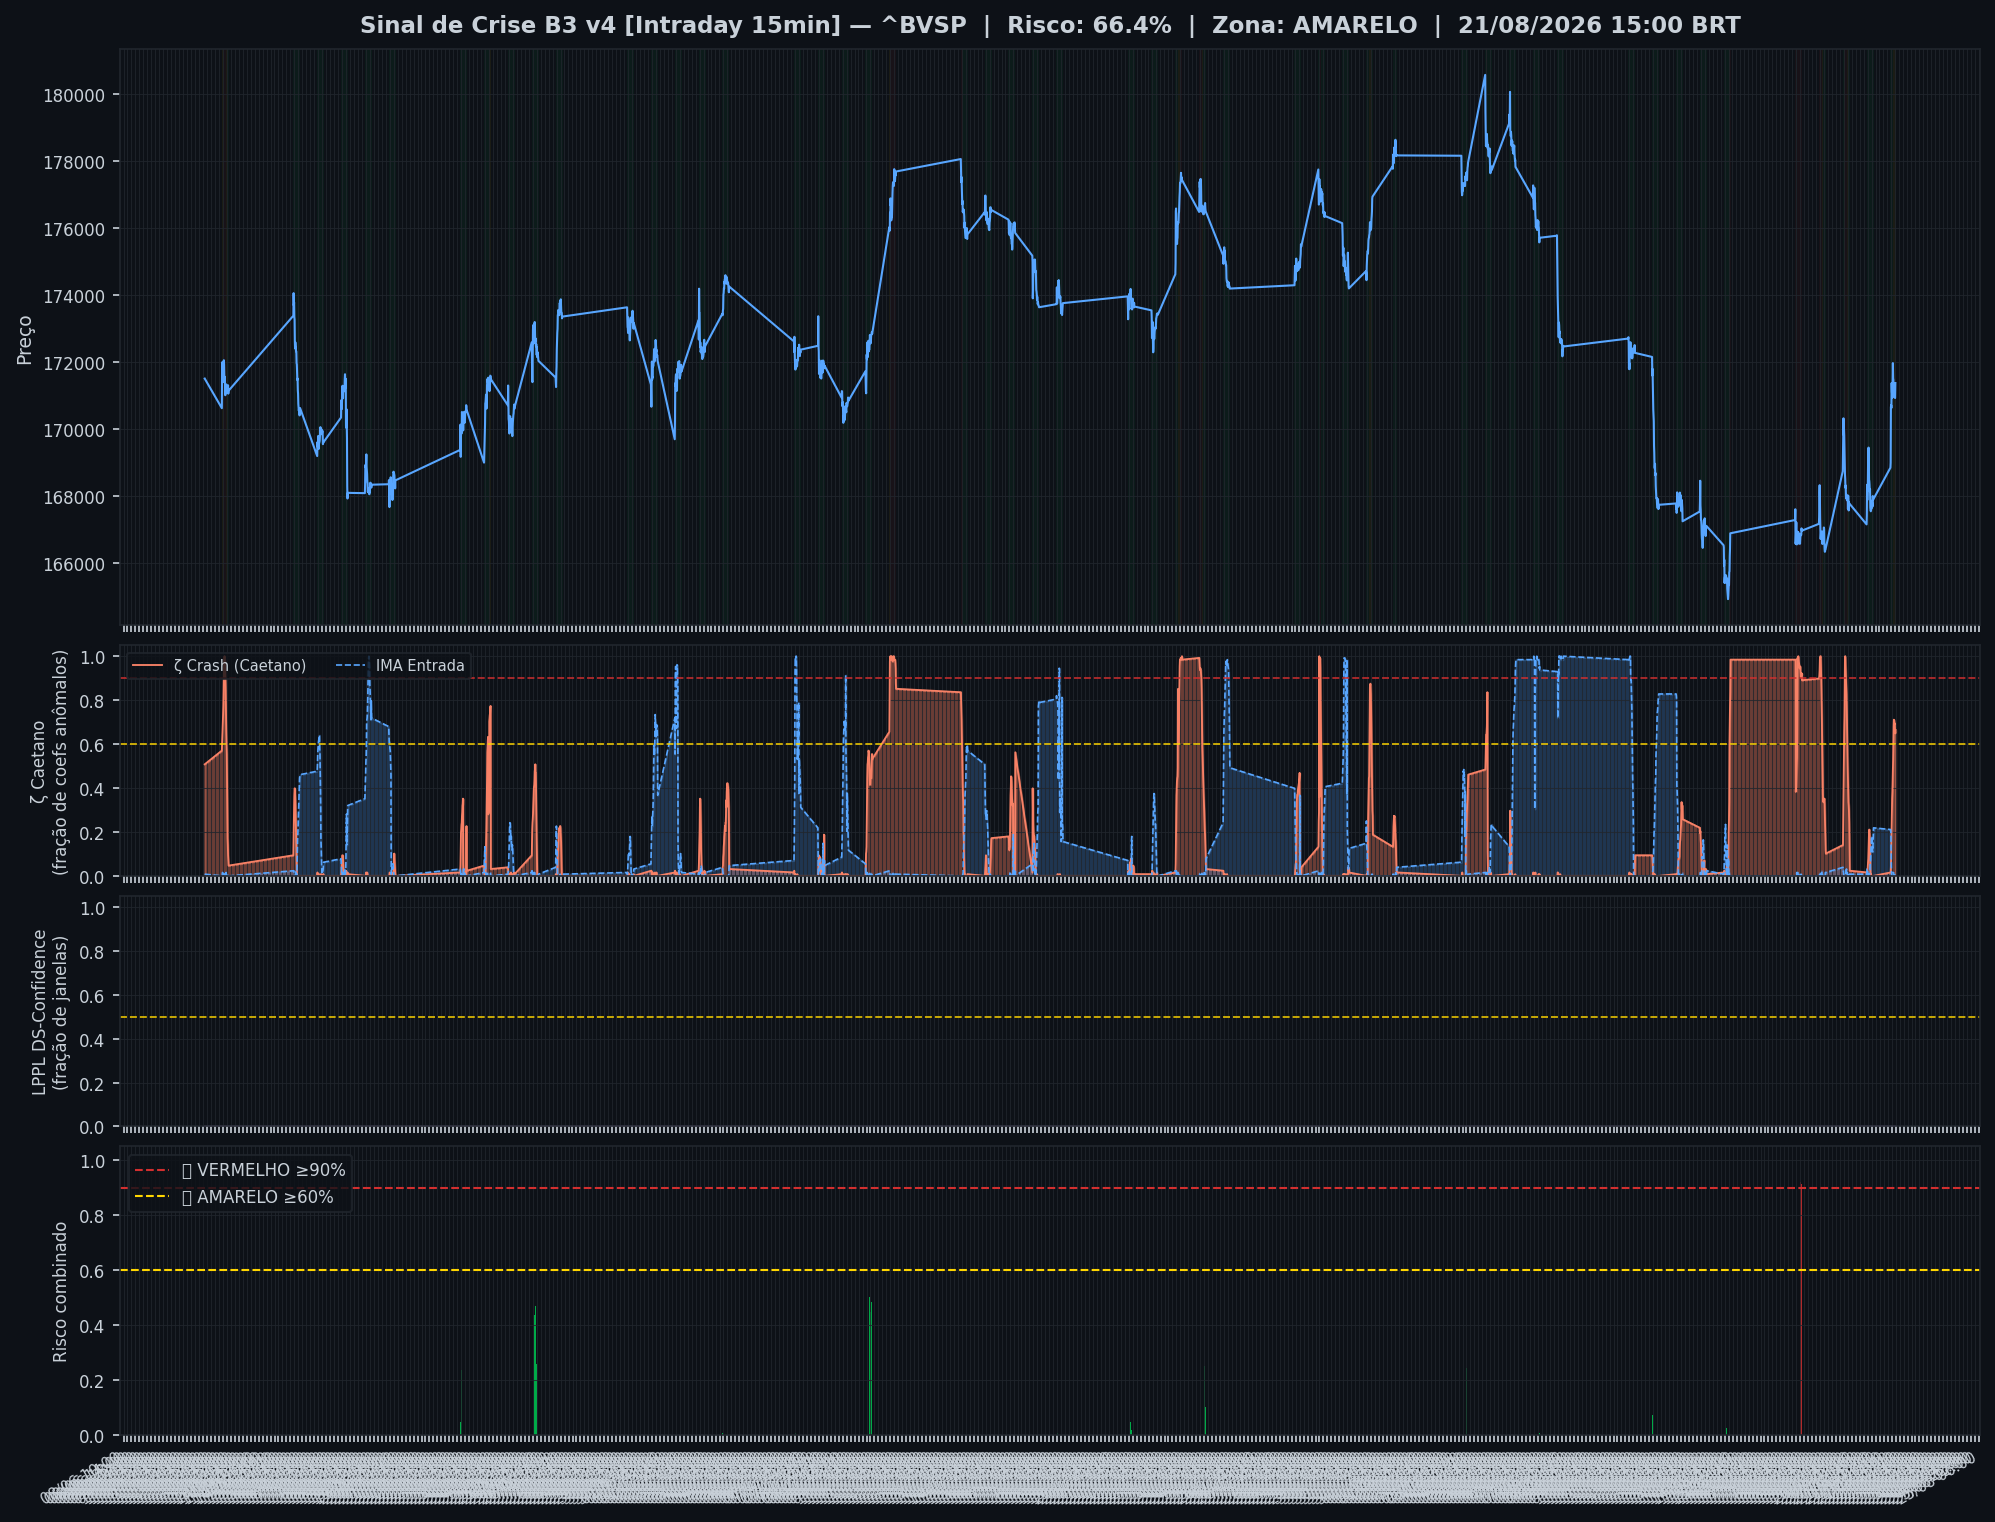
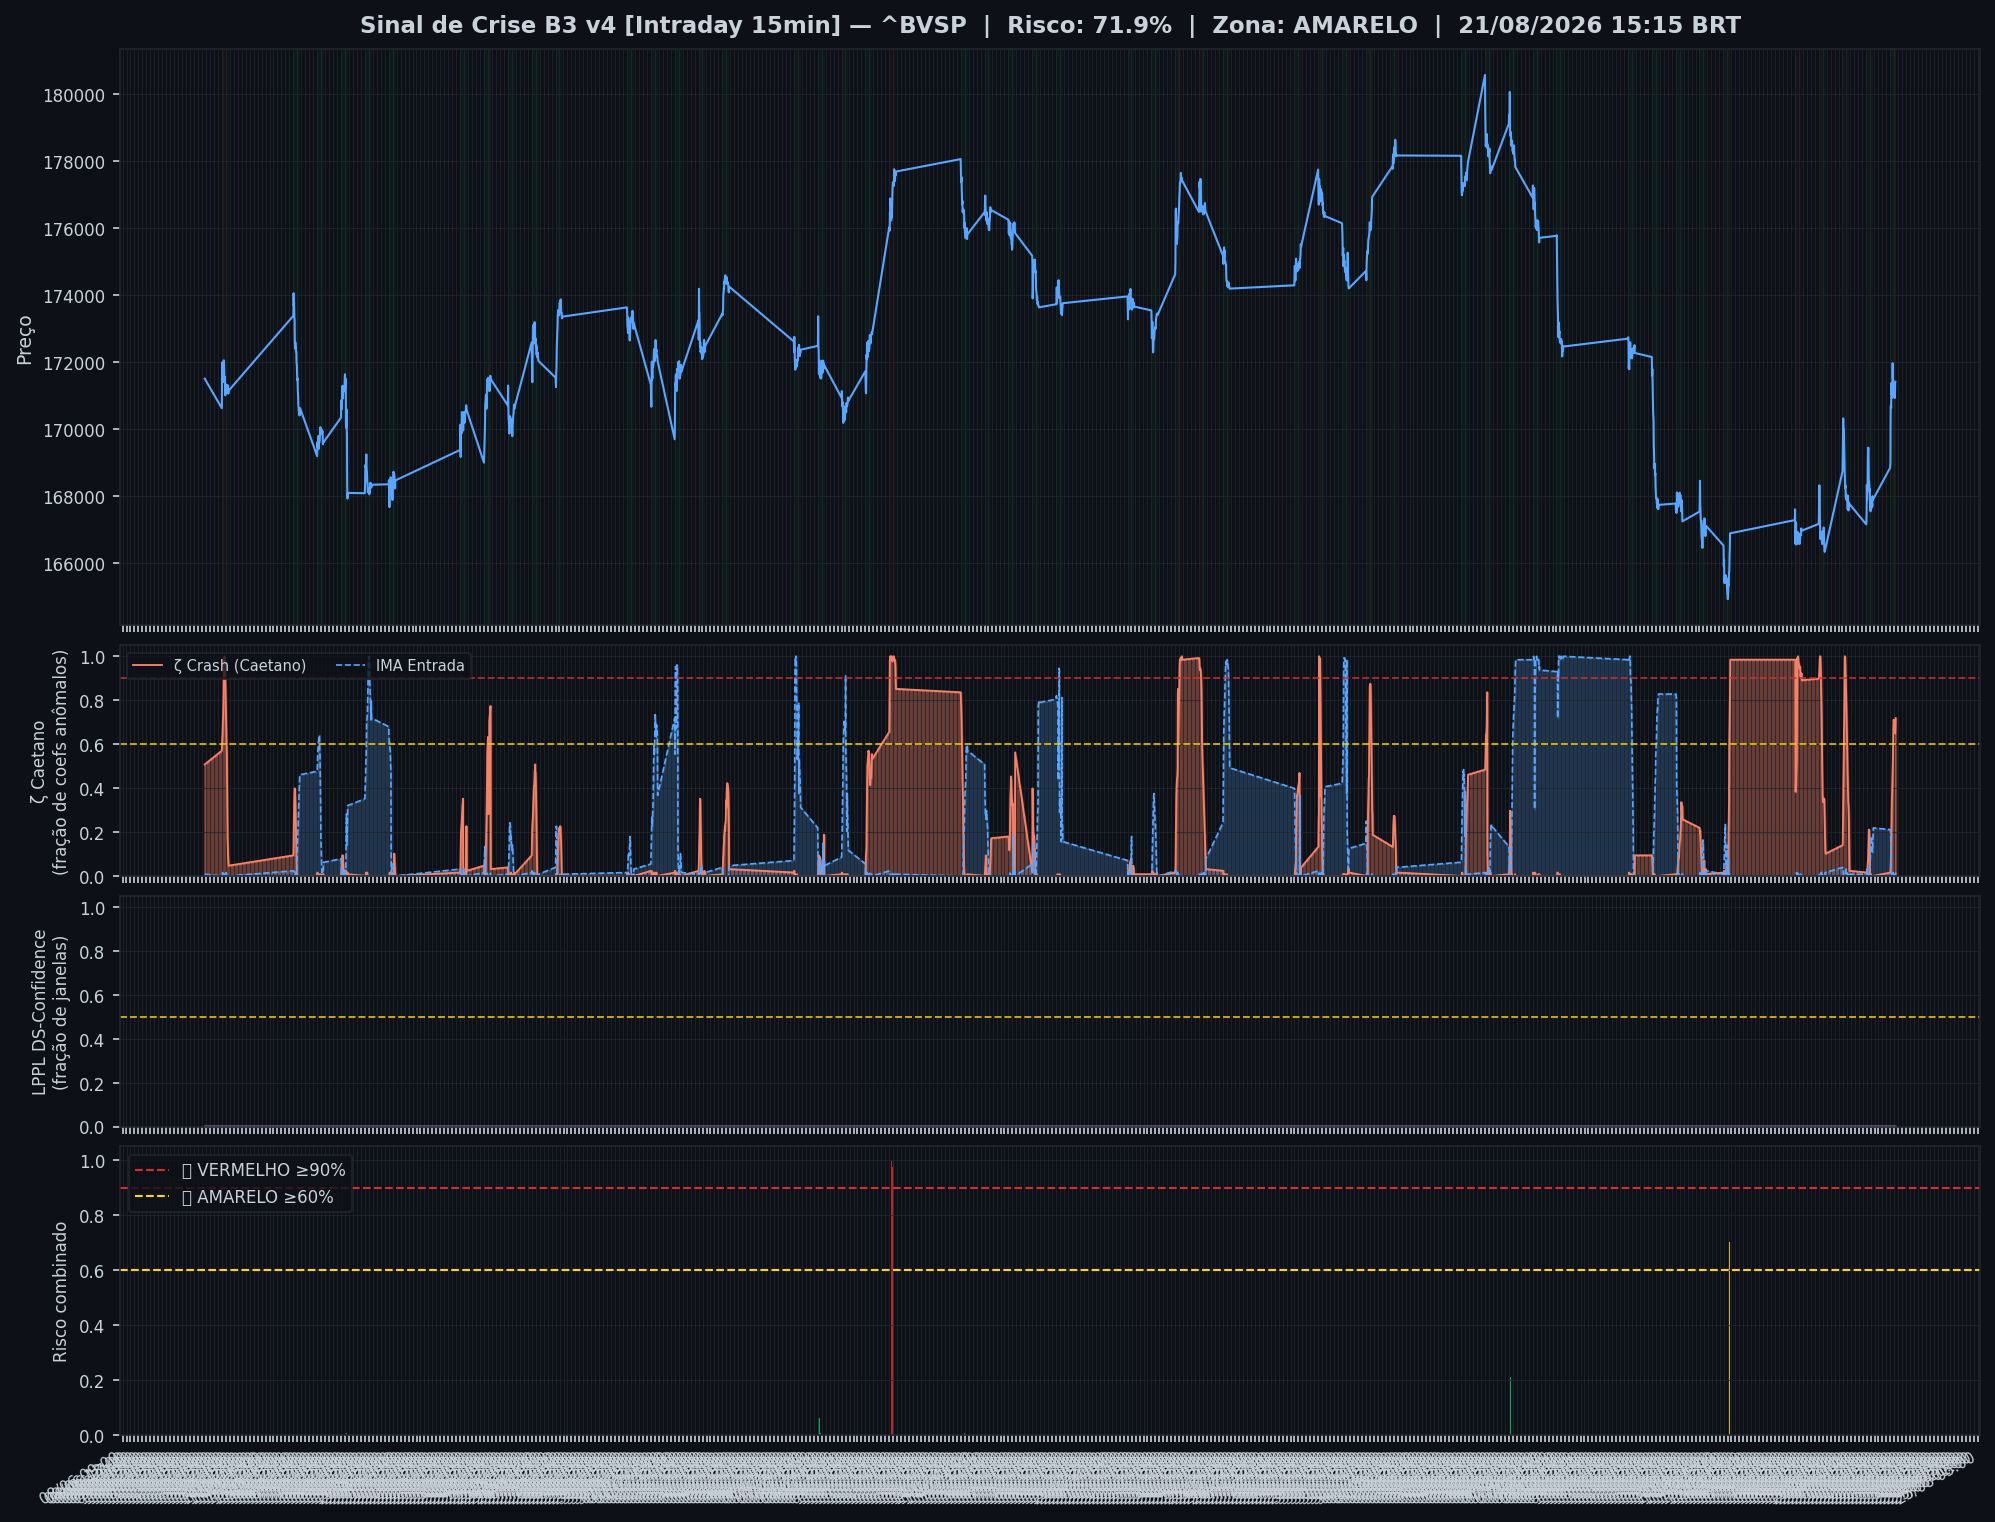
🤖 Auto: Sinal 21/08/2026 16:00

diff --git a/content/intraday/2026-08-21.md b/content/intraday/2026-08-21.md
@@ -1,20 +1,20 @@
 ---
-title: "🟡 Intraday 21/08/2026 15:00 BRT — AMARELO"
+title: "🟡 Intraday 21/08/2026 15:15 BRT — AMARELO"
 date: 2026-08-21
 tags: [intraday]
 ---
 
-> [!warning] 🟡 **AMARELO** — Risco 66% · ▲ +2 p.p. vs leitura anterior
-> `█████████████░░░░░░░`
+> [!warning] 🟡 **AMARELO** — Risco 72% · ▲ +5 p.p. vs leitura anterior
+> `██████████████░░░░░░`
 > Atenção — padrão de coeficientes associado a quedas mais severas.
 
 
 | Indicador | Valor |
 |---|---|
-| 🔴 ζ Crash — severidade da queda em curso | **66%** |
-| 🔵 ζ Entrada — estrutura de fundo | 0% |
+| 🔴 ζ Crash — severidade da queda em curso | **72%** |
+| 🔵 ζ Entrada — estrutura de fundo | 2% |
 | 🫧 LPPL DS-Confidence | 0% |
-| 📊 Ibovespa | 171.364 pts |
+| 📊 Ibovespa | 171.404 pts |
 
 ![Gráfico do sinal](../graficos/sinal_intraday.png)
 
@@ -22,6 +22,7 @@ tags: [intraday]
 
 | Data | Zona | Risco | IMA Crash | Entrada | LPPL |
 |---|---|---|---|---|---|
+| 2026-08-21 15:15 | 🟡 AMARELO | **72%** | 72% | 2% | 0% |
 | 2026-08-21 15:00 | 🟡 AMARELO | **66%** | 66% | 0% | 0% |
 | 2026-08-21 14:45 | 🟡 AMARELO | **65%** | 65% | 0% | 0% |
 | 2026-08-21 14:30 | 🟡 AMARELO | **66%** | 66% | 0% | 0% |
@@ -51,7 +52,6 @@ tags: [intraday]
 | 2026-08-20 15:30 | 🟢 VERDE | **0%** | 0% | 15% | 0% |
 | 2026-08-20 15:15 | 🟢 VERDE | **0%** | 0% | 16% | 0% |
 | 2026-08-20 15:00 | 🟢 VERDE | **0%** | 0% | 18% | 0% |
-| 2026-08-20 14:45 | 🟢 VERDE | **0%** | 0% | 18% | 0% |
 
 ## Monitor Multi-Ativo
 
@@ -60,34 +60,34 @@ tags: [intraday]
 | Zona | Ativo | Setor | IMA Crash | IMA Entrada |
 |---|---|---|---|---|
 | 🟢 | **VALE** | Mineração | 3.1% | 0.8% |
-| 🟢 | **PETROBRAS** | Petróleo | 3.1% | 0.8% |
-| 🟢 | **ITAUUNIBANCO** | Financeiro | 3.1% | 0.8% |
-| 🟢 | **PETROBRAS** | Petróleo | 3.1% | 0.8% |
-| 🟢 | **AXIA ENERGIA** | Energia | 3.1% | 0.8% |
-| 🟢 | **BRADESCO** | Financeiro | 3.1% | 0.8% |
-| 🟢 | **ITAUSA** | Financeiro | 3.1% | 0.8% |
-| 🟢 | **WEG** | Industrial | 3.1% | 0.8% |
-| 🟢 | **B3** | Financeiro | 3.1% | 0.8% |
-| 🟢 | **EMBRAER** | Outros | 3.1% | 0.8% |
-| 🟢 | **SABESP** | Saneamento | 3.1% | 0.8% |
-| 🟢 | **AMBEV S/A** | Consumo | 3.1% | 0.8% |
-| 🟢 | **BTGP BANCO** | Financeiro | 3.1% | 0.8% |
-| 🟢 | **BRASIL** | Financeiro | 3.1% | 0.8% |
-| 🟢 | **ENEVA** | Energia | 3.1% | 0.8% |
-| 🟢 | **EQUATORIAL** | Energia | 3.1% | 0.8% |
-| 🟢 | **COPEL** | Energia | 3.1% | 0.8% |
-| 🟢 | **VIBRA** | Energia | 3.1% | 0.8% |
-| 🟢 | **REDE D OR** | Saúde | 3.1% | 0.8% |
-| 🟢 | **ULTRAPAR** | Outros | 3.1% | 0.8% |
-| 🟢 | **LOCALIZA** | Aluguel | 3.1% | 0.8% |
-| 🟢 | **SUZANO S.A.** | Papel/Celulose | 3.1% | 0.8% |
-| 🟢 | **USD/BRL** | Câmbio | 1.6% | 3.1% |
-| 🟢 | **PRIO** | Petróleo | 0.8% | 10.2% |
-| 🟢 | **GERDAU** | Siderurgia | 0.8% | 10.2% |
+| 🟢 | **PETROBRAS** | Petróleo | 1.6% | 3.1% |
+| 🟢 | **ITAUUNIBANCO** | Financeiro | 1.6% | 3.1% |
+| 🟢 | **PETROBRAS** | Petróleo | 1.6% | 3.1% |
+| 🟢 | **AXIA ENERGIA** | Energia | 1.6% | 3.1% |
+| 🟢 | **BRADESCO** | Financeiro | 1.6% | 3.1% |
+| 🟢 | **ITAUSA** | Financeiro | 1.6% | 3.1% |
+| 🟢 | **WEG** | Industrial | 1.6% | 3.1% |
+| 🟢 | **B3** | Financeiro | 1.6% | 3.1% |
+| 🟢 | **EMBRAER** | Outros | 1.6% | 3.1% |
+| 🟢 | **SABESP** | Saneamento | 1.6% | 3.1% |
+| 🟢 | **AMBEV S/A** | Consumo | 1.6% | 3.1% |
+| 🟢 | **BTGP BANCO** | Financeiro | 1.6% | 3.1% |
+| 🟢 | **BRASIL** | Financeiro | 1.6% | 3.1% |
+| 🟢 | **ENEVA** | Energia | 1.6% | 3.1% |
+| 🟢 | **PRIO** | Petróleo | 1.6% | 3.1% |
+| 🟢 | **EQUATORIAL** | Energia | 1.6% | 3.1% |
+| 🟢 | **COPEL** | Energia | 1.6% | 3.1% |
+| 🟢 | **VIBRA** | Energia | 1.6% | 3.1% |
+| 🟢 | **REDE D OR** | Saúde | 1.6% | 3.1% |
+| 🟢 | **ULTRAPAR** | Outros | 1.6% | 3.1% |
+| 🟢 | **LOCALIZA** | Aluguel | 1.6% | 3.1% |
+| 🟢 | **GERDAU** | Siderurgia | 1.6% | 3.1% |
+| 🟢 | **SUZANO S.A.** | Papel/Celulose | 1.6% | 3.1% |
+| 🟢 | **USD/BRL** | Câmbio | 0.0% | 3.1% |
 
 ![Monitor multi-ativo](../graficos/multi_intraday.png)
 
-*Página atualizada em 21/08/2026 15:45 BRT (leitura da barra de 2026-08-21 15:00 BRT).*
+*Página atualizada em 21/08/2026 16:00 BRT (leitura da barra de 2026-08-21 15:15 BRT).*
 
 > [!info]- Como interpretar (clique para expandir)
 > - **ζ Crash**: fração dos coeficientes wavelet acima do corte (Caetano & Yoneyama 2009). Escala absoluta: ζ=0,90 = 90% dos coeficientes anômalos — historicamente, quedas com ζ≥0,90 foram mais fundas e mais longas. **Mede a severidade do movimento em curso, não prevê o início da queda.**

diff --git a/content/index.md b/content/index.md
@@ -8,19 +8,19 @@ tags: [home]
 
 Monitoramento diário e intraday do Ibovespa — **IMA Wavelet** (Prof. Marco Antonio Leonel Caetano, ITA/INSPER) + **LPPL DS-Confidence** (Prof. Didier Sornette, ETH-Zurich).
 
-*Última atualização: 21/08/2026 15:45 BRT · ^BVSP · Intraday 15min · v4*
+*Última atualização: 21/08/2026 16:00 BRT · ^BVSP · Intraday 15min · v4*
 
-> [!warning] 🟡 **AMARELO** — Risco 66% · ▲ +2 p.p. vs leitura anterior
-> `█████████████░░░░░░░`
+> [!warning] 🟡 **AMARELO** — Risco 72% · ▲ +5 p.p. vs leitura anterior
+> `██████████████░░░░░░`
 > Atenção — padrão de coeficientes associado a quedas mais severas.
 
 
 | Indicador | Valor |
 |---|---|
-| 🔴 ζ Crash — severidade da queda em curso | **66%** |
-| 🔵 ζ Entrada — estrutura de fundo | 0% |
+| 🔴 ζ Crash — severidade da queda em curso | **72%** |
+| 🔵 ζ Entrada — estrutura de fundo | 2% |
 | 🫧 LPPL DS-Confidence | 0% |
-| 📊 Ibovespa | 171.364 pts |
+| 📊 Ibovespa | 171.404 pts |
 
 **Multi-ativo:** 0% em tensão (0🔴 0🟡 de 25 ativos)
 
@@ -32,7 +32,7 @@ Monitoramento diário e intraday do Ibovespa — **IMA Wavelet** (Prof. Marco An
 
 | Data | Zona | Risco | IMA | LPPL |
 |---|---|---|---|---|
-| [21 Aug 2026](diario/2026-08-21) | 🟡 AMARELO | **66%** | 66% | 0% |
+| [21 Aug 2026](diario/2026-08-21) | 🟡 AMARELO | **72%** | 72% | 0% |
 | [20 Aug 2026](diario/2026-08-20) | 🟢 VERDE | **0%** | 0% | 0% |
 
 ## Navegação

diff --git a/content/historico.md b/content/historico.md
@@ -7,6 +7,7 @@ tags: [historico]
 
 | Data | Modo | Zona | Risco | IMA | LPPL |
 |---|---|---|---|---|---|
+| 2026-08-21 15:15 | intraday | 🟡 AMARELO | 72% | 72% | 0% |
 | 2026-08-21 15:00 | intraday | 🟡 AMARELO | 66% | 66% | 0% |
 | 2026-08-21 14:45 | intraday | 🟡 AMARELO | 65% | 65% | 0% |
 | 2026-08-21 14:30 | intraday | 🟡 AMARELO | 66% | 66% | 0% |
